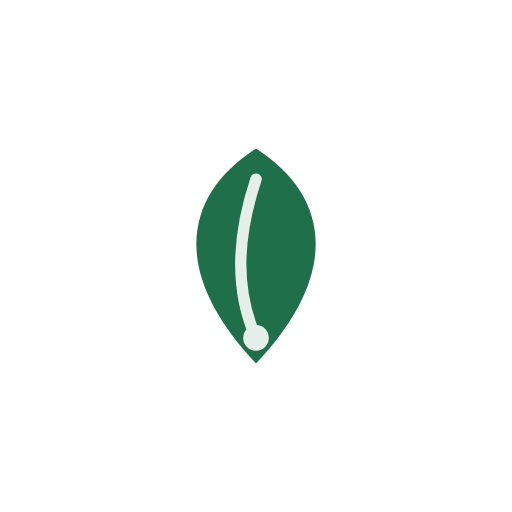
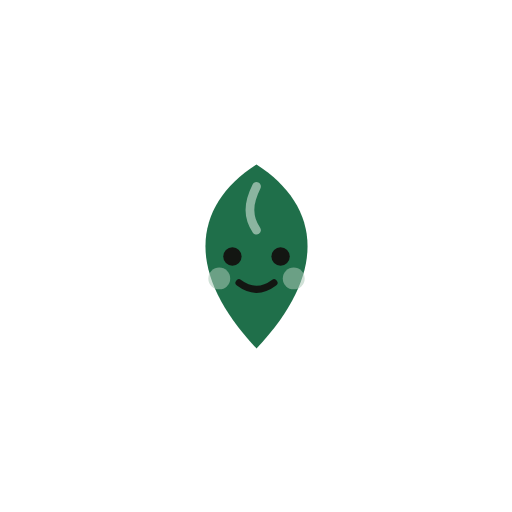
feat: mascotte sur l'icône de l'app et en grand sur le splash
Suite au retour utilisateur ("je le veux aussi sur l'icône de l'app, et en grand sur
le splash") : la mascotte (humeur "calm", cf. mascot.tsx) remplace le trait abstrait
sur les assets système où elle est bien lisible (icône Android ≥ ~200px rendus,
splash) — seul le favicon (16-32px affichés) reste le trait pur.

Nouveau assets/images/mascot-mark.svg : version statique de la variante "calm" du
composant Mascot, source de vérité pour la régénération de ces assets (même rôle que
logo-mark.svg pour favicon.png, dont le commentaire est mis à jour pour clarifier le
partage).

- icon.png / android-icon-foreground.png : visage ajouté, même échelle qu'avant
  (26,9 %/23,2 % de largeur) — la demande portait sur l'identité, pas la taille.
- android-icon-monochrome.png (icône thématisée Android 13+) : nervure + yeux +
  bouche ajoutés comme cutouts alpha (même technique que la nervure/point existants),
  vérifié visuellement teinté sur fond noir et fond accent.
- splash-icon.png : agrandi dans son propre canevas (32,6 % → ~64 % de largeur, même
  esprit que le fix du favicon — moins de padding interne) + `imageWidth` 76 → 180
  dans app.json pour un rendu réellement grand à l'écran, pas seulement dans l'asset.

Bug détecté et corrigé avant livraison : le premier rendu des 3 assets à fond
transparent capturait un fond opaque #333 (couleur de la page de prévisualisation
utilisée pour le rendu) au lieu de la transparence réelle — vérifié en inspectant le
[…]

Changed region(s): [[0.375, 0.2812, 0.625, 0.7188]]

diff --git a/src/components/mascot.tsx b/src/components/mascot.tsx
@@ -24,9 +24,11 @@ export type MascotMood = 'calm' | 'happy' | 'encouraging';
 //   - `encouraging` : réponse négative à un check-in — yeux mi-clos et petit sourire,
 //     jamais un visage triste ou déçu (aucun sourcil froncé, aucune bouche tombante).
 //
-// L'icône/favicon/app icon (assets/images/logo-mark.svg) restent volontairement le trait
-// pur sans visage : un visage ne se lit plus en dessous d'environ 40px (vérifié
-// visuellement), la taille à laquelle ces assets sont affichés.
+// assets/images/mascot-mark.svg est la version statique de la variante `calm` ci-dessous —
+// source de vérité pour la régénération de icon.png/android-icon-*.png/splash-icon.png, qui
+// doit rester visuellement identique à ce composant si l'un des deux est retouché.
+// favicon.png reste dérivé du logo sans visage (assets/images/logo-mark.svg) : un visage ne
+// se lit plus en dessous d'environ 40px (vérifié visuellement), la taille d'un favicon.
 const FACE_BY_MOOD: Record<MascotMood, { eyes: 'dots' | 'happy' | 'soft'; mouth: string; blushOpacity: number; blushR: number; blushCy: number }> = {
   calm: { eyes: 'dots', mouth: 'M42,62 Q50,68 58,62', blushOpacity: 0.55, blushR: 5, blushCy: 60 },
   happy: { eyes: 'happy', mouth: 'M40,60 Q50,72 60,60', blushOpacity: 0.6, blushR: 5.4, blushCy: 59 },
